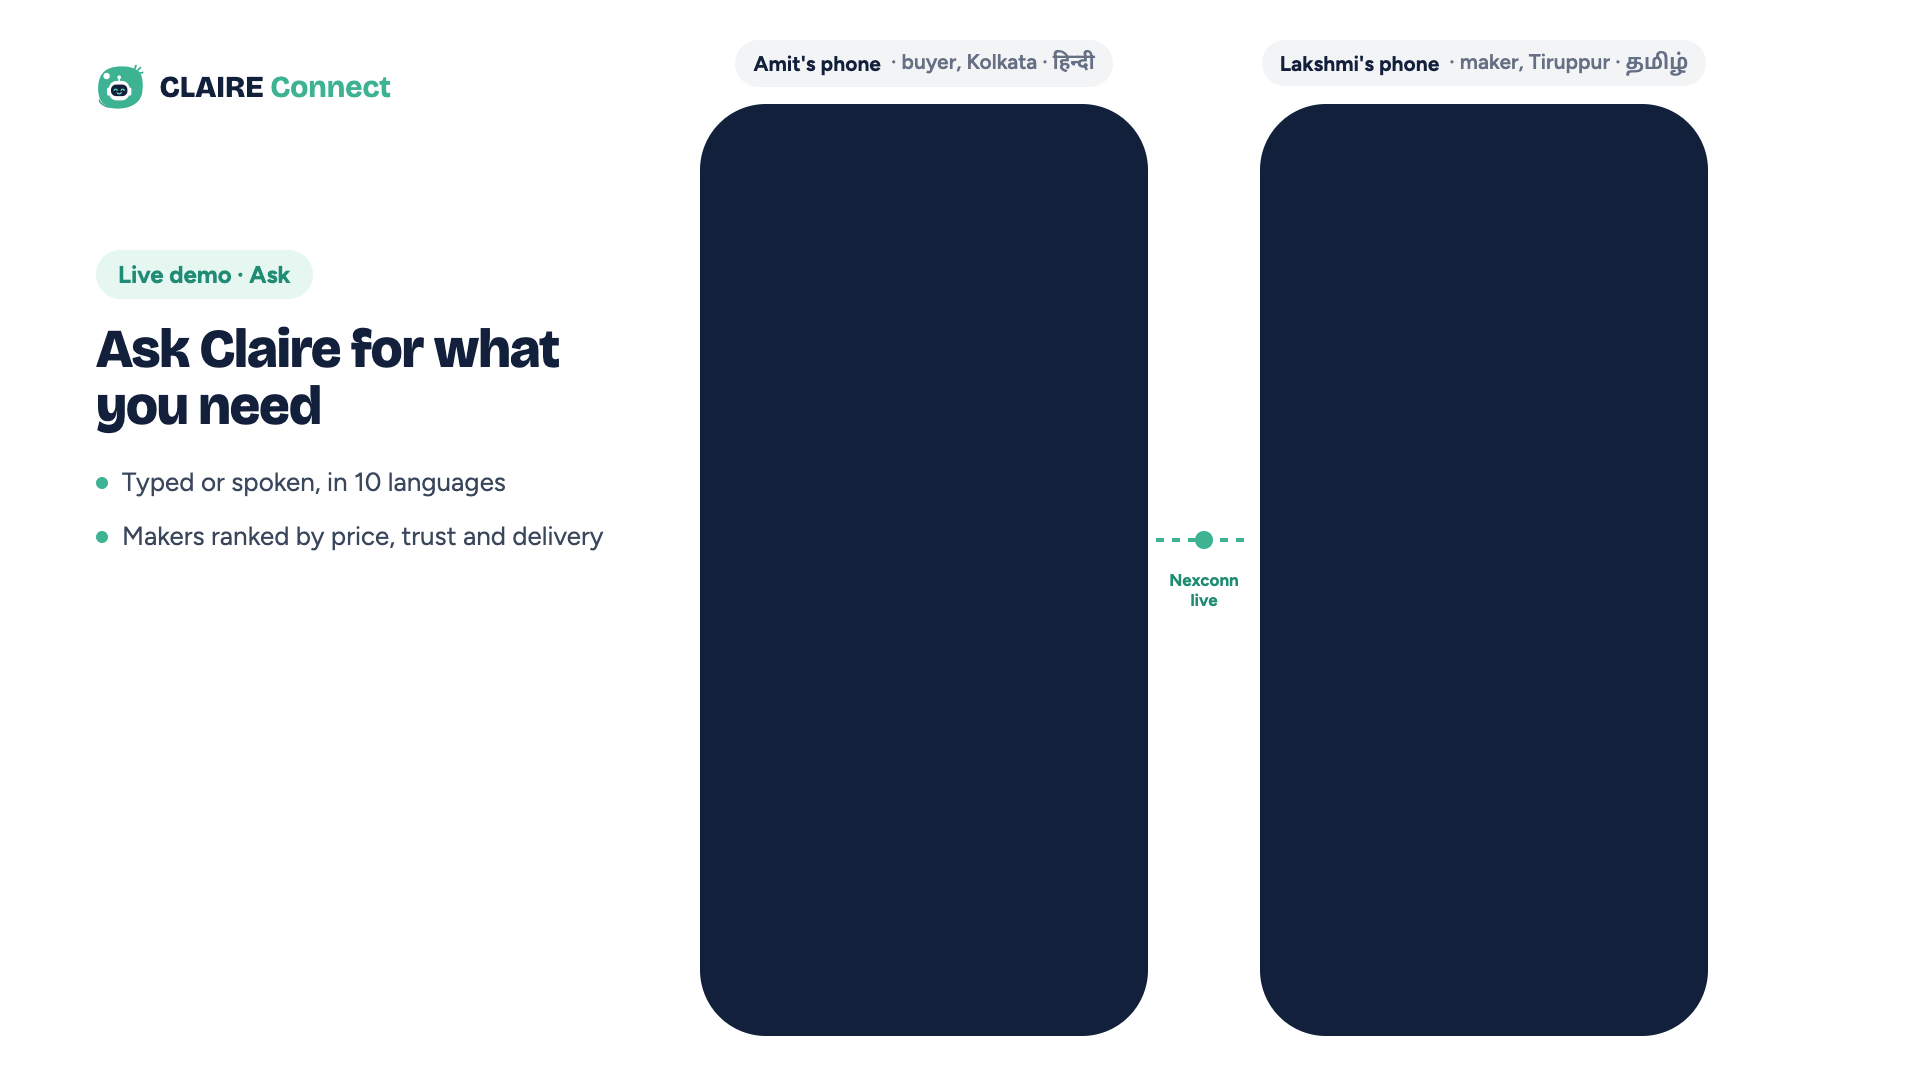
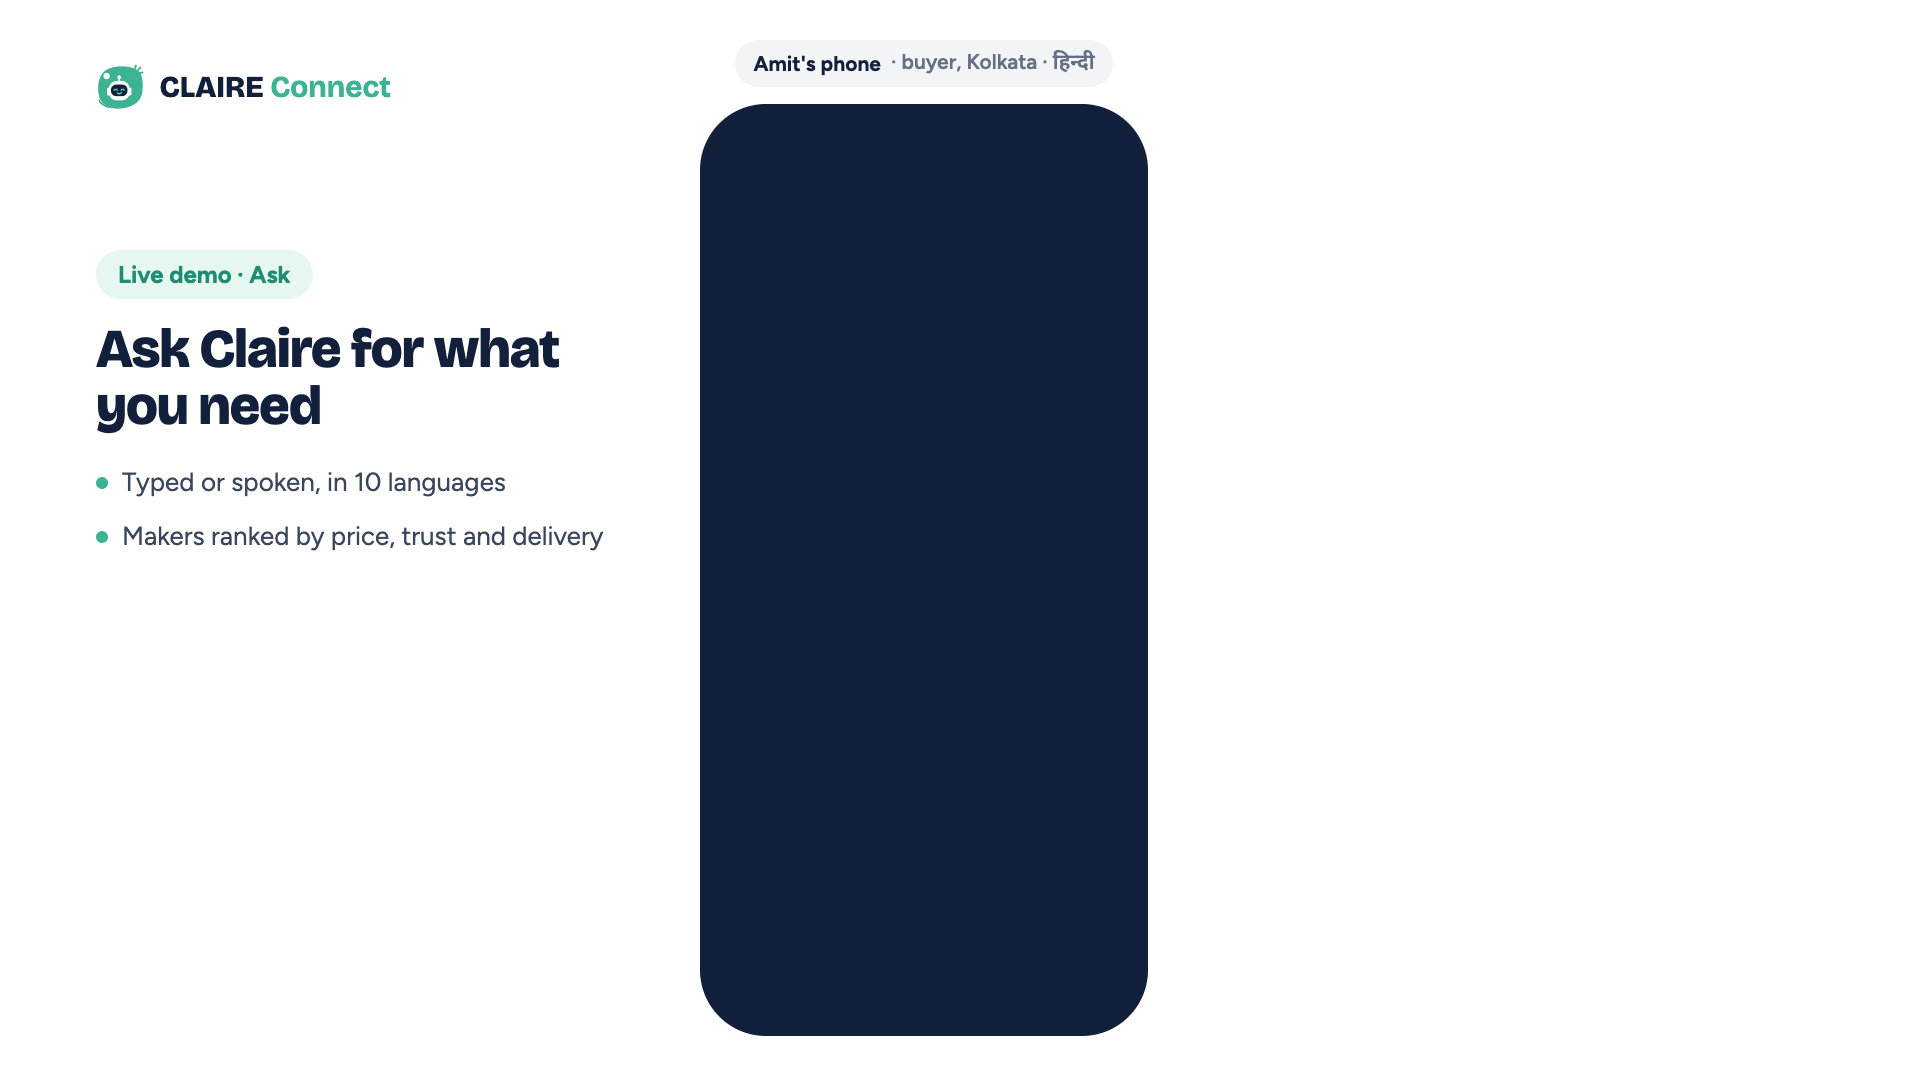
Video: frame-exact two-phone sync, single phone until Lakshmi is picked
- capture2.mjs records the Hindi-Tamil deal with Chrome's screencast and rebuilds each phone's
  video from per-frame capture times, so both phones match wall-clock time (Playwright's
  recorder drifted 3-5 s on the busier page, so Lakshmi saw the sample card before Amit sent it).
- compose2.py: scene 7 shows only Amit's phone; in scene 8 Lakshmi's phone slides in once her
  chat is open; idle stretches are cut from both phones at once (scene 8 now plays at 1.7x).

Changed region(s): [[0.5938, 0.0306, 0.9062, 0.9778]]

diff --git a/demo-video/v2/compose2.py b/demo-video/v2/compose2.py
@@ -13,7 +13,7 @@ def win(group, sid, a=None, b=None):
     return (a if a is not None else m['start'], b if b is not None else m['end'])
 TWO = [(716, 120), (1276, 120)]; ONE = (1252, 120)
 DEMO = {
-    's07': ('market2', ['amit', 'lakshmi'], win('market2', 's07')),
+    's07': ('market2', ['amit'], win('market2', 's07')),
     's08': ('market2', ['amit', 'lakshmi'], win('market2', 's08')),
     's09': ('market2', ['amit', 'lakshmi'], win('market2', 's09')),
     's09b': ('ratings', ['store', 'profile'], win('ratings', 's09b')),
@@ -22,6 +22,11 @@ DEMO = {
     's13': ('goods', ['murali'], win('goods', 's13', a=raw['goods']['marks'][4]['t'] + 3.0, b=raw['goods']['marks'][4]['t'] + 16.5)),
     's14': ('desk', ['desk'], win('desk', 's14')),
 }
+m2 = {x['id'] + ':' + x['edge']: x['t'] for x in raw['market2']['marks']}
+CUTS = {'s08': [(40.6, 44.8), (52.4, 57.6)]}  # idle stretches (no change on either phone), dropped from both at once
+SLIDE = {'s08': m2['s08:start'] + 5.6}    # Lakshmi's phone slides in once Amit picks her
+CAST = json.load(open('raw/cast_market2.json'))  # exact-time screencast videos for the two-phone deal
+FLASH = {}
 OVER = {'s09': ('stages/pill_sample.png', 'sampled', 3.2, 934, 966)}
 ENC = ['-c:v', 'libx264', '-preset', 'medium', '-crf', '18', '-pix_fmt', 'yuv420p', '-r', str(FPS), '-c:a', 'aac', '-b:a', '160k', '-ar', '48000', '-ac', '2']
 def run(cmd):
@@ -42,19 +47,35 @@ for sid in ORDER:
     else:
         group, names, (a, b) = DEMO[sid]; L = b - a; HOLD = 1.4 if sid != 's12' else 0.6
         speed = min(3.2, max(1.0, L / (T - HOLD)))
-        ins = ['-loop', '1', '-framerate', str(FPS), '-t', str(T), '-i', f'stages/{sid}.png']
+        ins = ['-loop', '1', '-framerate', str(FPS), '-t', str(T), '-i', f'stages/{"s08base" if sid in SLIDE else sid}.png']
         f = []; prev = '0:v'
         desk = names == ['desk']
+        cut = CUTS.get(sid)
+        cutlen = sum(c1 - c0 for c0, c1 in cut) if cut else 0
+        if cut: L -= cutlen; speed = min(3.2, max(1.0, L / (T - HOLD)))
+        slide = SLIDE.get(sid)
+        if slide:
+            ins += ['-loop', '1', '-i', 'stages/s08_slide.png']; si = len([x for x in ins if x == '-i']) - 1
         for k, n in enumerate(names):
-            off = a - raw[group]['starts'][n]
-            ins += ['-ss', f'{off:.3f}', '-t', f'{L:.3f}', '-i', raw[group]['vids'][n]]
+            fv = FLASH.get(group)
+            if group == 'market2': off = a - CAST[n]['t0']
+            else: off = (a - raw[group]['flashAt'] + fv[n]) if fv else a - raw[group]['starts'][n]
+            src = CAST[n]['mp4'] if group == 'market2' else raw[group]['vids'][n]
+            ins += ['-ss', f'{off:.3f}', '-t', f'{L + cutlen:.3f}', '-i', src]
             if desk: x, y, w, h, mask = 240, 180, 1440, 860, 'stages/mask_desk.png'; sc = f'scale={w}:{h}'
-            else: (x, y), w, h, mask = (TWO[k] if len(names) == 2 else ONE), 416, 900, 'stages/mask_phone.png'; sc = f'crop=390:844:0:0,scale={w}:{h}:flags=lanczos'
+            else: (x, y), w, h, mask = (TWO[k] if (len(names) == 2 or sid == 's07') else ONE), 416, 900, 'stages/mask_phone.png'; sc = f'scale={w}:{h}:flags=lanczos' if group == 'market2' else f'crop=390:844:0:0,scale={w}:{h}:flags=lanczos'
             ins += ['-loop', '1', '-i', mask]
-            vi, mi = 1 + 2 * k, 2 + 2 * k
-            f.append(f'[{vi}:v]setpts=(PTS-STARTPTS)/{speed:.4f},fps={FPS},{sc},tpad=stop_mode=clone:stop_duration={T:.2f},trim=0:{T},format=rgba[c{k}];[{mi}:v]scale={w}:{h},format=gray[m{k}];[c{k}][m{k}]alphamerge[cm{k}];[{prev}][cm{k}]overlay={x}:{y}:shortest=0[o{k}]')
+            vi, mi = (1 if not slide else 2) + 2 * k, (2 if not slide else 3) + 2 * k
+            sel = (f"fps={FPS},select='not(" + '+'.join(f'between(t,{c0 - a:.3f},{c1 - a:.3f})' for c0, c1 in cut) + f")',setpts=N/({FPS}*TB),") if cut else ''
+            f.append(f'[{vi}:v]setpts=PTS-STARTPTS,{sel}setpts=PTS/{speed:.4f},fps={FPS},{sc},tpad=stop_mode=clone:stop_duration={T:.2f},trim=0:{T},format=rgba[c{k}];[{mi}:v]scale={w}:{h},format=gray[m{k}];[c{k}][m{k}]alphamerge[cm{k}]')
+            if slide and k == 1:
+                t0 = (slide - a) / speed
+                xe = f"if(lt(t,{t0:.2f}),1920,if(lt(t,{t0 + 0.7:.2f}),1148+772*pow(1-(t-{t0:.2f})/0.7,3),1148))"
+                f.append(f"[{prev}][{si}:v]overlay=x='{xe}':y=0[sl];[sl][cm{k}]overlay=x='{xe}+128':y={y}:shortest=0[o{k}]")
+            else:
+                f.append(f'[{prev}][cm{k}]overlay={x}:{y}:shortest=0[o{k}]')
             prev = f'o{k}'
-        ai = 1 + 2 * len(names)
+        ai = len([x for x in ins if x == '-i'])
         if sid in OVER:
             png, mk, dur, ox, oy = OVER[sid]
             mt = [x['t'] for x in raw[group]['marks'] if x['id'] == sid and x['edge'] == mk][0]

diff --git a/demo-video/v2/changes.py b/demo-video/v2/changes.py
@@ -1,0 +1,13 @@
+import json, subprocess, sys
+d = json.load(open('raw/all.json'))['market2']; v = d['vids']; F = {'amit': 4.633, 'lakshmi': 4.533}; fa = d['flashAt']
+def sigs(n, g0, g1, step=0.25):
+    off = F[n] - fa  # video time = global + off
+    raw = subprocess.run(['ffmpeg', '-v', 'error', '-ss', f'{g0 + off:.2f}', '-t', f'{g1 - g0:.2f}', '-i', v[n], '-vf', f'fps={1/step},crop=390:844:0:0,scale=39:84,format=gray', '-f', 'rawvideo', '-'], capture_output=True).stdout
+    N = 39 * 84; out = []
+    for i in range(len(raw) // N - 1):
+        a, b = raw[i * N:(i + 1) * N], raw[(i + 1) * N:(i + 2) * N]
+        dd = sum(abs(x - y) for x, y in zip(a, b))
+        if dd > 15000: out.append((round(g0 + (i + 1) * step, 2), dd))
+    return out
+g0, g1 = float(sys.argv[1]), float(sys.argv[2])
+for n in ['amit', 'lakshmi']: print(n, sigs(n, g0, g1))

diff --git a/demo-video/v2/findflash.py b/demo-video/v2/findflash.py
@@ -1,0 +1,12 @@
+import json, subprocess, sys
+def flash_time(video, upto=40):
+    W, H = 8, 16
+    raw = subprocess.run(['ffmpeg', '-v', 'error', '-t', str(upto), '-i', video, '-vf', f'fps=30,crop=390:844:0:0,scale={W}:{H},format=rgb24', '-f', 'rawvideo', '-'], capture_output=True).stdout
+    n = W * H * 3
+    for i in range(len(raw) // n):
+        f = raw[i * n:(i + 1) * n]; r = sum(f[0::3]) / (W * H); g = sum(f[1::3]) / (W * H); b = sum(f[2::3]) / (W * H)
+        if r > 200 and g < 80 and b > 200: return i / 30
+    return None
+if __name__ == '__main__':
+    d = json.load(open('raw/all.json'))[sys.argv[1]]
+    print({n: flash_time(v) for n, v in d['vids'].items()}, 'flashAt', d.get('flashAt'), 'starts', d['starts'])

diff --git a/demo-video/v2/changes2.py b/demo-video/v2/changes2.py
@@ -1,0 +1,12 @@
+import json, subprocess, sys
+c = json.load(open('raw/cast_market2.json'))
+def sigs(n, g0, g1, step=0.2):
+    off = -c[n]['t0']
+    raw = subprocess.run(['ffmpeg', '-v', 'error', '-ss', f'{g0 + off:.2f}', '-t', f'{g1 - g0:.2f}', '-i', c[n]['mp4'], '-vf', f'fps={1/step},scale=39:84,format=gray', '-f', 'rawvideo', '-'], capture_output=True).stdout
+    N = 39 * 84; out = []
+    for i in range(len(raw) // N - 1):
+        dd = sum(abs(x - y) for x, y in zip(raw[i * N:(i + 1) * N], raw[(i + 1) * N:(i + 2) * N]))
+        if dd > 15000: out.append(round(g0 + (i + 1) * step, 1))
+    return out
+g0, g1 = float(sys.argv[1]), float(sys.argv[2])
+for n in ['amit', 'lakshmi']: print(n, sigs(n, g0, g1))
